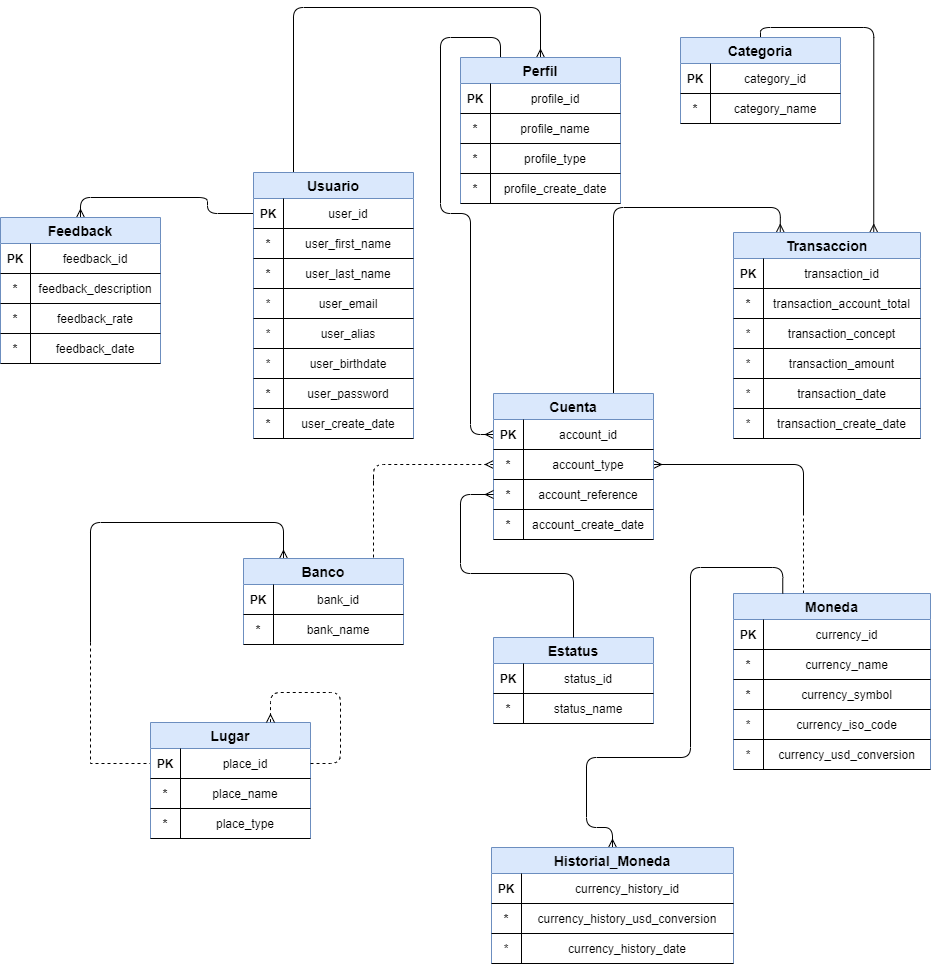
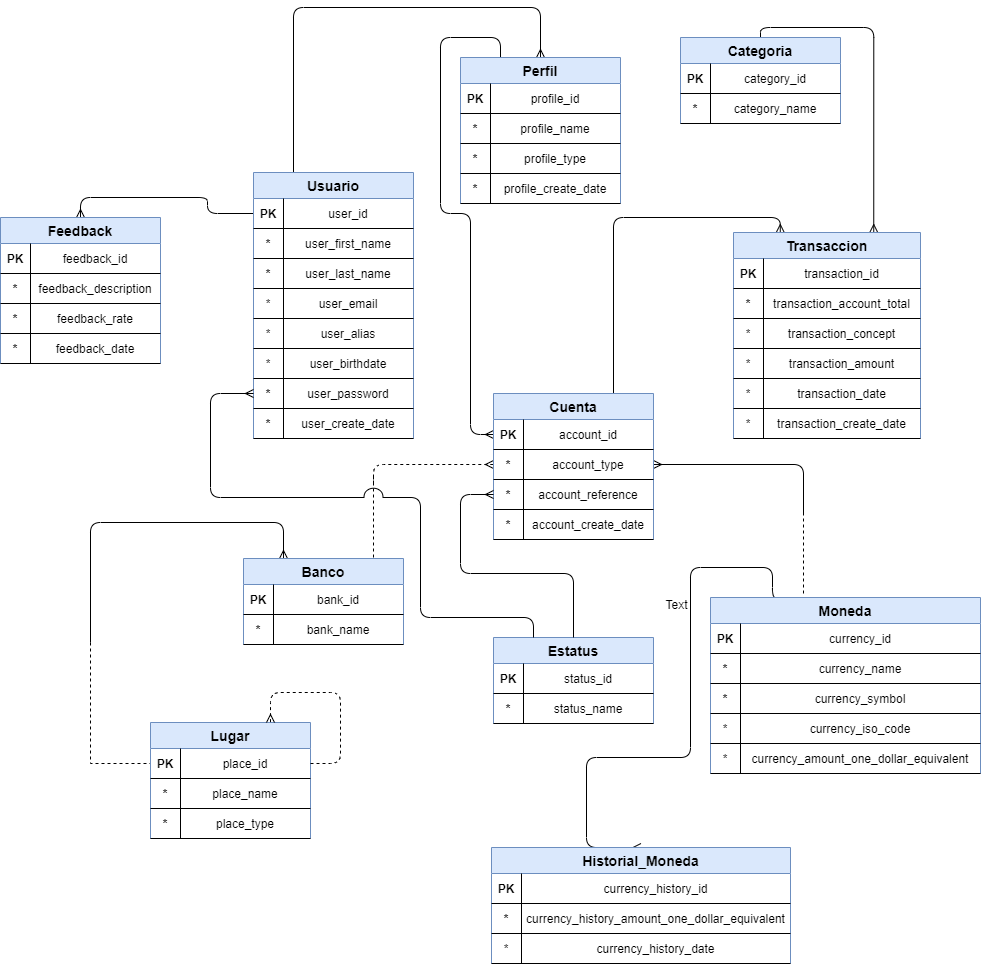
Arreglos en el modelo de datos y cambios en controladores y modelos

diff --git a/models/user/user-models.js b/models/user/user-models.js
@@ -7,7 +7,7 @@ module.exports = {
   },
   createUser: function(con, body, callback) {
     con.query(
-      "INSERT INTO USUARIO (user_first_name, user_last_name, user_email, user_alias, user_birthdate, user_password, user_create_date) VALUES ( ?, ?, ?, ?, ?, ?, ?);",
+      "INSERT INTO USUARIO (user_first_name, user_last_name, user_email, user_alias, user_birthdate, user_password, user_create_date, fk_status_id) VALUES ( ?, ?, ?, ?, ?, ?, ?, ?);",
       [
         body.user_first_name,
         body.user_last_name,
@@ -15,14 +15,15 @@ module.exports = {
         body.user_alias,
         body.user_birthdate,
         body.user_password,
-        body.user_create_date
+        body.user_create_date,
+        body.fk_status_id
       ],
       callback
     );
   },
   updateUser: function(con, id, body, callback) {
     con.query(
-      "UPDATE USUARIO SET user_first_name = ?, user_last_name = ?, user_email = ?, user_alias = ?, user_birthdate = ?, user_password = ? WHERE user_id = ?;",
+      "UPDATE USUARIO SET user_first_name = ?, user_last_name = ?, user_email = ?, user_alias = ?, user_birthdate = ?, user_password = ?, fk_status_id = ? WHERE user_id = ?;",
       [
         body.user_first_name,
         body.user_last_name,
@@ -30,12 +31,17 @@ module.exports = {
         body.user_alias,
         body.user_birthdate,
         body.user_password,
+        body.fk_status_id,
         id
       ],
       callback
     );
   },
   deleteUser: function(con, id, callback) {
-    con.query("DELETE FROM USUARIO WHERE user_id = ?;", [id], callback);
+    con.query(
+      "UPDATE USUARIO SET fk_status_id = (SELECT status_id FROM ESTATUS WHERE status_name = ?) WHERE user_id = ? ;",
+      ["REMOVE", id],
+      callback
+    );
   }
 };

diff --git a/models/transaction/transaction-models.js b/models/transaction/transaction-models.js
@@ -3,7 +3,11 @@ module.exports = {
     con.query("SELECT * FROM TRANSACCION", callback);
   },
   getTransaction: function(con, id, callback) {
-    con.query("SELECT * FROM TRANSACCION WHERE transaction_id = ? ", [id], callback);
+    con.query(
+      "SELECT * FROM TRANSACCION WHERE transaction_id = ? ",
+      [id],
+      callback
+    );
   },
   createTransaction: function(con, body, callback) {
     con.query(
@@ -22,13 +26,12 @@ module.exports = {
   },
   updateTransaction: function(con, id, body, callback) {
     con.query(
-      "UPDATE TRANSACCION SET transaction_account_total = ?, transaction_amount = ?, transaction_concept = ?, transaction_date = ?, transaction_create_date = ?, fk_account_id = ?, fk_category_id = ? WHERE transaction_id = ?;",
+      "UPDATE TRANSACCION SET transaction_account_total = ?, transaction_amount = ?, transaction_concept = ?, transaction_date = ?, fk_account_id = ?, fk_category_id = ? WHERE transaction_id = ?;",
       [
         body.transaction_account_total,
         body.transaction_amount,
         body.transaction_concept,
         body.transaction_date,
-        body.transaction_create_date,
         body.fk_account_id,
         body.fk_category_id,
         id
@@ -37,6 +40,10 @@ module.exports = {
     );
   },
   deleteTransaction: function(con, id, callback) {
-    con.query("DELETE FROM TRANSACCION WHERE transaction_id = ?;", [id], callback);
+    con.query(
+      "DELETE FROM TRANSACCION WHERE transaction_id = ?;",
+      [id],
+      callback
+    );
   }
 };

diff --git a/tests/user/user.test.js b/tests/user/user.test.js
@@ -39,7 +39,7 @@ describe("Users Test", () => {
       user_alias: 333,
       user_birthdate: "1998-04-100",
       user_password: 2222,
-      user_create_date: "2020-12-99"
+      fk_status_id: 1
     };
     request(app)
       .post("/balance/api/users/create")
@@ -58,7 +58,7 @@ describe("Users Test", () => {
       user_alias: "t98",
       user_birthdate: "1998-04-03",
       user_password: "admin1",
-      user_create_date: "2020-04-03"
+      fk_status_id: 1
     };
     request(app)
       .post("/balance/api/users/create")
@@ -77,7 +77,8 @@ describe("Users Test", () => {
       user_email: "test@gmail.com",
       user_alias: "t98",
       user_birthdate: "1998-04-03",
-      user_password: "admin1"
+      user_password: "admin1",
+      fk_status_id: 1
     };
     request(app)
       .put(`/balance/api/users/update/${insert_id}`)
@@ -95,7 +96,8 @@ describe("Users Test", () => {
       user_email: "test@gmail.com",
       user_alias: 1212,
       user_birthdate: "1998-04-43",
-      user_password: "admin1"
+      user_password: "admin1",
+      fk_status_id: 1
     };
     request(app)
       .put(`/balance/api/users/update/${insert_id}`)

diff --git a/models/account/account-models.js b/models/account/account-models.js
@@ -22,11 +22,10 @@ module.exports = {
   },
   updateAccount: function(con, id, body, callback) {
     con.query(
-      "UPDATE CUENTA SET account_type = ?, account_reference = ?, account_create_date = ?, fk_profile_id = ?, fk_bank_id = ?, fk_currency_id = ?, fk_status_id = ? WHERE account_id = ?;",
+      "UPDATE CUENTA SET account_type = ?, account_reference = ?, fk_profile_id = ?, fk_bank_id = ?, fk_currency_id = ?, fk_status_id = ? WHERE account_id = ?;",
       [
         body.account_type,
         body.account_reference,
-        body.account_create_date,
         body.fk_profile_id,
         body.fk_bank_id,
         body.fk_currency_id,
@@ -37,6 +36,10 @@ module.exports = {
     );
   },
   deleteAccount: function(con, id, callback) {
-    con.query("DELETE FROM CUENTA WHERE account_id = ?;", [id], callback);
+    con.query(
+      "UPDATE CUENTA SET fk_status_id = (SELECT status_id FROM ESTATUS WHERE status_name = ?) WHERE account_id = ?;",
+      ["REMOVE", id],
+      callback
+    );
   }
 };

diff --git a/models/profile/profile-models.js b/models/profile/profile-models.js
@@ -19,14 +19,8 @@ module.exports = {
   },
   updateProfile: function(con, id, body, callback) {
     con.query(
-      "UPDATE PERFIL SET profile_name = ?, profile_type = ?, profile_create_date = ?, fk_user_id = ? WHERE profile_id = ?;",
-      [
-        body.profile_name,
-        body.profile_type,
-        body.profile_create_date,
-        body.fk_user_id,
-        id
-      ],
+      "UPDATE PERFIL SET profile_name = ?, profile_type = ?, fk_user_id = ? WHERE profile_id = ?;",
+      [body.profile_name, body.profile_type, body.fk_user_id, id],
       callback
     );
   },
